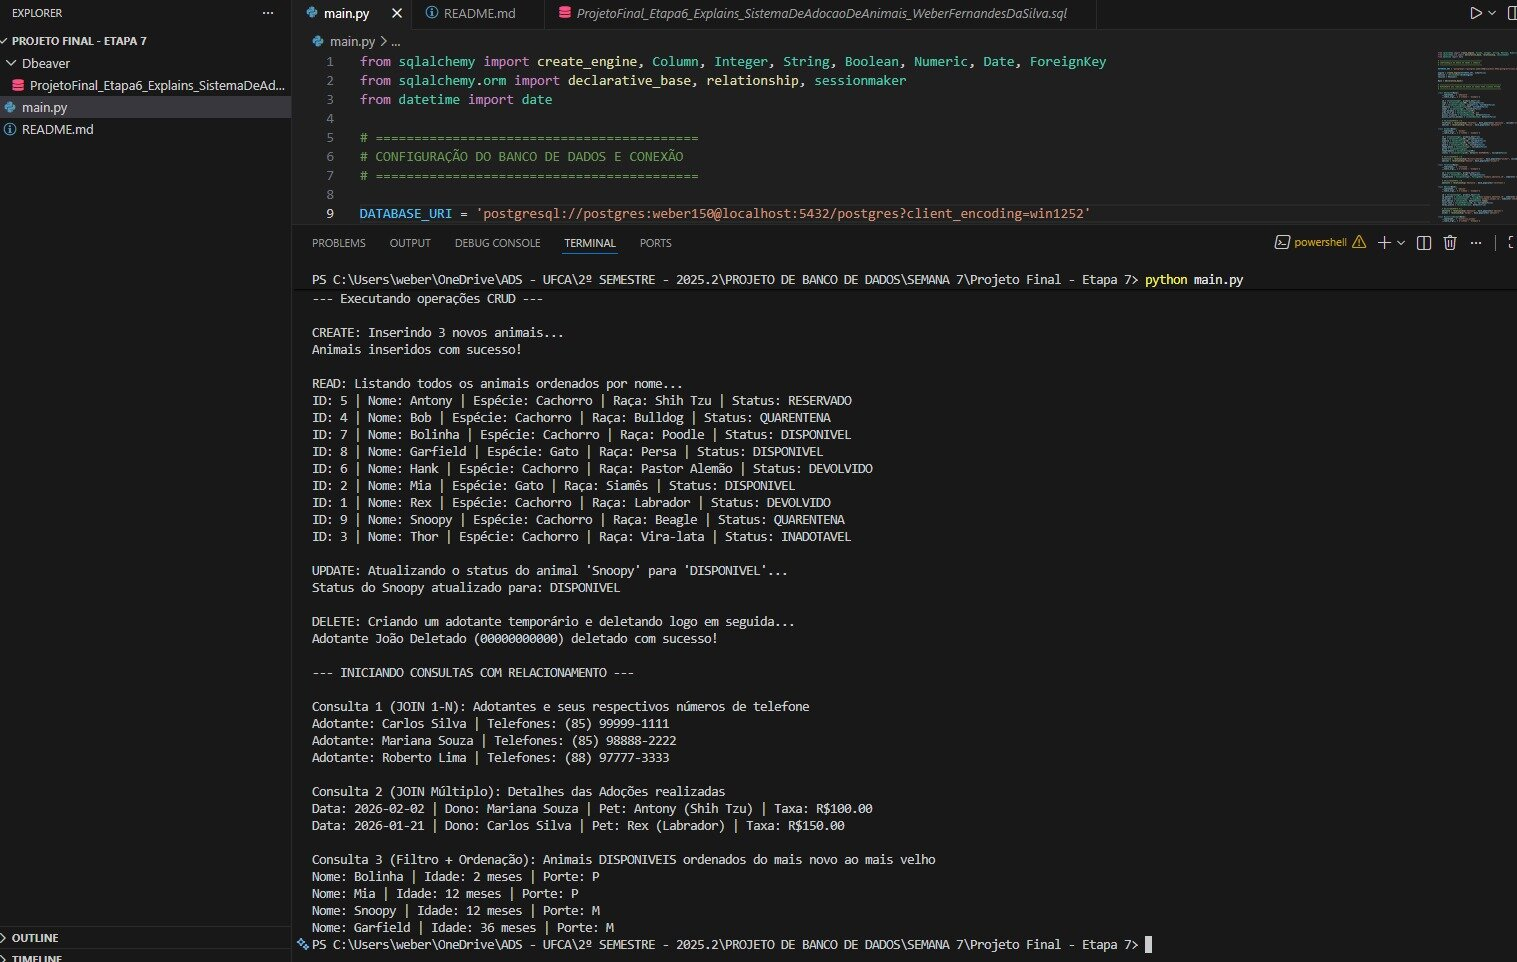
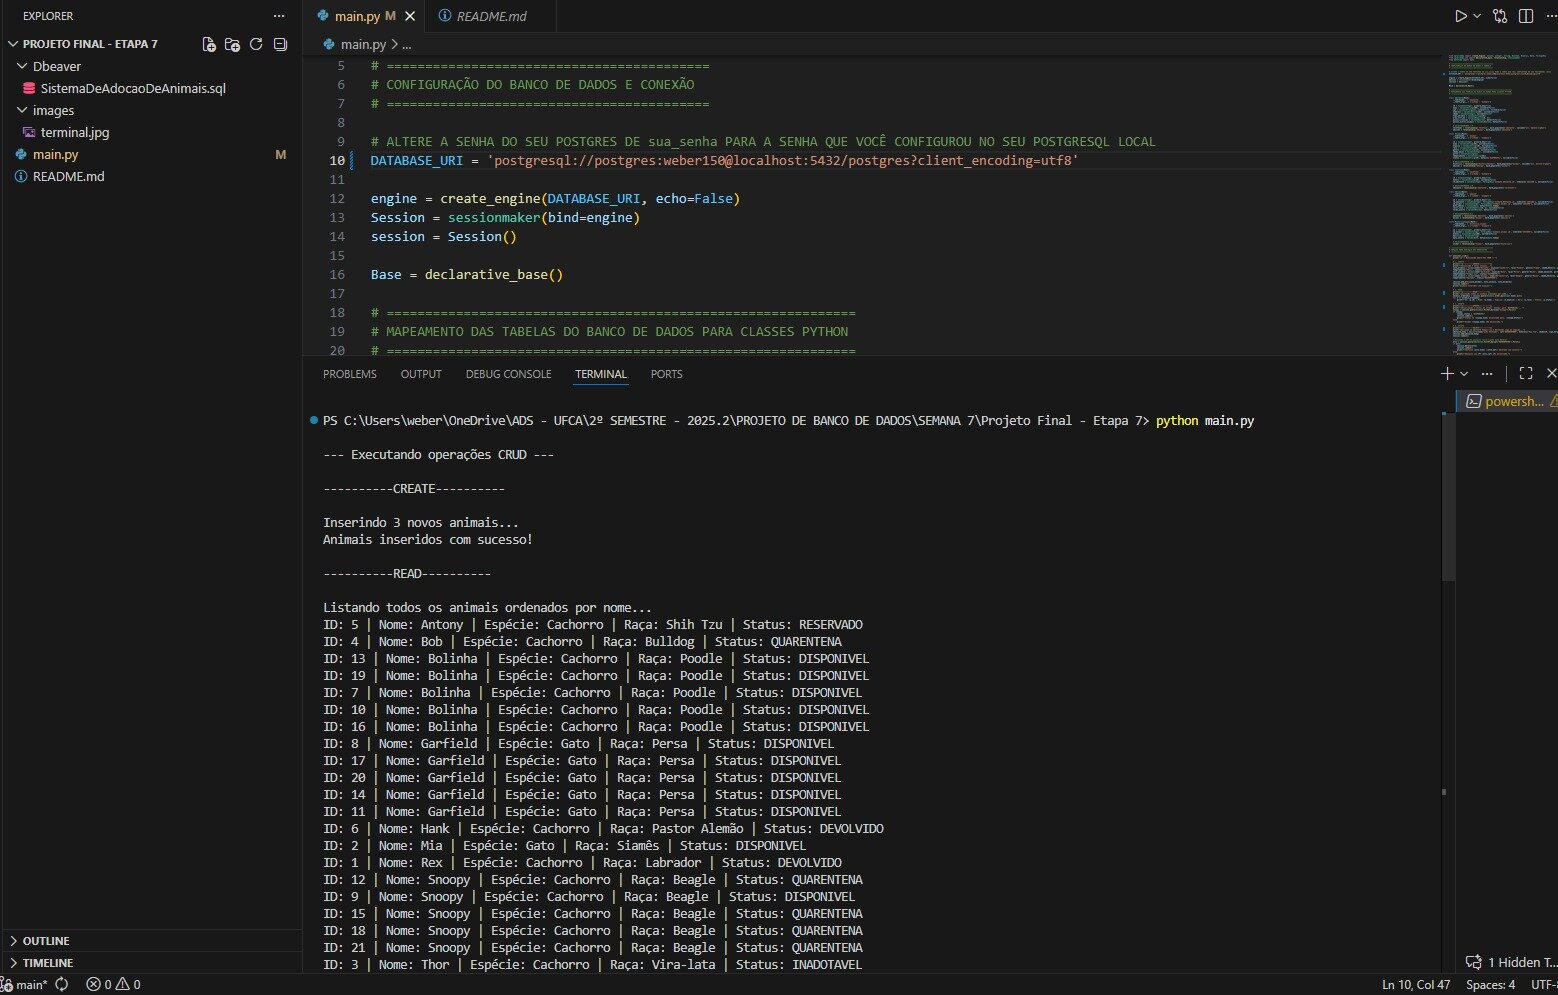
Atualiza estrutura de pastas, imagens e ajustes gerais do projeto

diff --git a/main.py b/main.py
@@ -102,7 +102,8 @@ def executar_crud():
     print("\n--- Executando operações CRUD ---")
 
     # 1. CREATE
-    print("\nCREATE: Inserindo 3 novos animais...")
+    print(("\n----------CREATE----------"))
+    print("\nInserindo 3 novos animais...")
     novo_animal1 = Animal(nome="Bolinha", especie="Cachorro", raca="Poodle", genero="Fêmea", idade_meses=2, porte="P", temperamento="Dócil", status="DISPONIVEL")
     novo_animal2 = Animal(nome="Garfield", especie="Gato", raca="Persa", genero="Macho", idade_meses=36, porte="M", temperamento="Preguiçoso", status="DISPONIVEL")
     novo_animal3 = Animal(nome="Snoopy", especie="Cachorro", raca="Beagle", genero="Macho", idade_meses=12, porte="M", temperamento="Agitado", status="QUARENTENA")
@@ -112,13 +113,15 @@ def executar_crud():
     print("Animais inseridos com sucesso!")
 
     # 2. READ
-    print("\nREAD: Listando todos os animais ordenados por nome...")
+    print(("\n----------READ----------"))
+    print("\nListando todos os animais ordenados por nome...")
     animais_ordenados = session.query(Animal).order_by(Animal.nome).all()
     for a in animais_ordenados:
         print(f"ID: {a.id} | Nome: {a.nome} | Espécie: {a.especie} | Raça: {a.raca} | Status: {a.status}")
 
     # 3. UPDATE
-    print("\nUPDATE: Atualizando o status do animal 'Snoopy' para 'DISPONIVEL'...")
+    print(("\n----------UPDATE----------"))
+    print("\nAtualizando o status do animal 'Snoopy' para 'DISPONIVEL'...")
     snoopy = session.query(Animal).filter_by(nome="Snoopy").first()
     if snoopy:
         snoopy.status = "DISPONIVEL"
@@ -128,7 +131,8 @@ def executar_crud():
         print(f"Animal {snoopy.nome} não encontrado.")
 
     # 4. DELETE
-    print("\nDELETE: Criando um adotante temporário e deletando logo em seguida...")
+    print(("\n----------DELETE----------"))
+    print("\nCriando um adotante temporário e deletando logo em seguida...")
     adotante_temp = Adotante(nome="João Deletado", cpf="00000000000", endereco="Rua Fim", idade=20, tipo_moradia="CASA", area_util_m2=50)
     session.add(adotante_temp)
     session.commit()
@@ -146,21 +150,24 @@ def executar_consultas_relacionamento():
     print("\n--- INICIANDO CONSULTAS COM RELACIONAMENTO ---")
 
     # Consulta 1: Relacionamento equivalente a JOIN (Listar Adotantes e seus Telefones)
-    print("\nConsulta 1 (JOIN 1-N): Adotantes e seus respectivos números de telefone")
+    print(("\n----------CONSULTA 1----------"))
+    print("\nJOIN 1-N: Adotantes e seus respectivos números de telefone")
     adotantes_com_telefone = session.query(Adotante).join(Telefone).all()
     for adotante in adotantes_com_telefone:
         telefones_str = ", ".join([t.numero for t in adotante.telefones])
         print(f"Adotante: {adotante.nome} | Telefones: {telefones_str}")
 
     # Consulta 2: Relacionamento equivalente a JOIN (Listar Adoções detalhadas)
-    print("\nConsulta 2 (JOIN Múltiplo): Detalhes das Adoções realizadas")
+    print(("\n----------CONSULTA 2----------"))
+    print("\nJOIN Múltiplo: Detalhes das Adoções realizadas")
     adocoes = session.query(Adocao).join(Adotante).join(Animal).all()
     for adocao in adocoes:
         print(f"Data: {adocao.data_adocao} | Dono: {adocao.adotante.nome} | Pet: {adocao.animal.nome} ({adocao.animal.raca}) | Taxa: R${adocao.valor_taxa}")
 
     # Consulta 3: Filtro + Ordenação (Animais DISPONIVEIS ordenados por idade)
     # Aqui o animal Snoopy no inicio estava como QUARENTENA, mas foi atualizado para DISPONIVEL, então ele deve aparecer na lista ordenada.
-    print("\nConsulta 3 (Filtro + Ordenação): Animais DISPONIVEIS ordenados do mais novo ao mais velho")
+    print(("\n----------CONSULTA 3----------"))
+    print("\nFiltro + Ordenação: Animais DISPONIVEIS ordenados do mais novo ao mais velho")
     animais_filtrados = session.query(Animal)\
         .filter(Animal.status == 'DISPONIVEL')\
         .order_by(Animal.idade_meses)\
